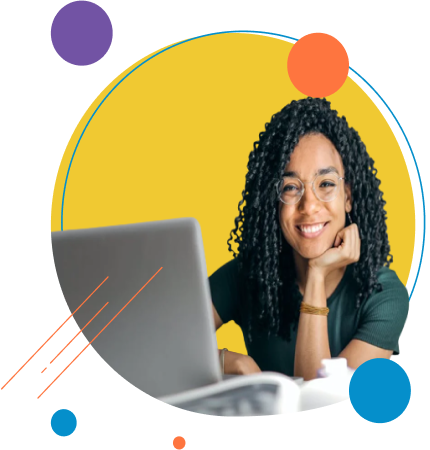
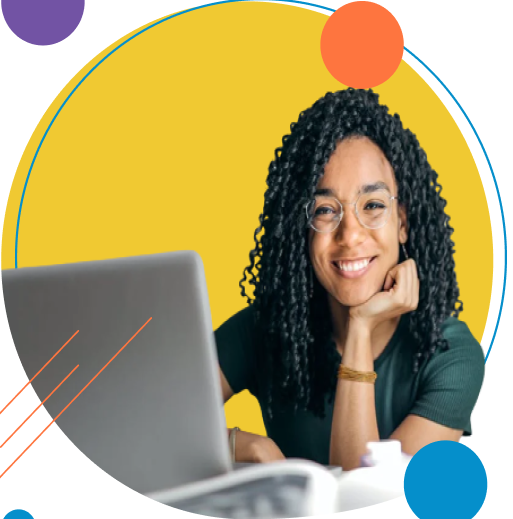
a litlle change on images code

diff --git a/assets/css/main.css b/assets/css/main.css
@@ -268,8 +268,11 @@ header .auth a {
 .AboutOurCourses .row {
   justify-content: space-evenly;
 }
-.AboutOurCourses img {
+.AboutOurCourses .image {
   width: 45%;
+}
+.AboutOurCourses img {
+  width: 100%;
 }
 .AboutOurCourses .info {
   width: 45%;
@@ -322,9 +325,7 @@ header .auth a {
   .AboutOurCourses .row {
     gap: 50px;
   }
-  .AboutOurCourses img {
-    width: 60%;
-  }
+
   .AboutOurCourses .info {
     width: 80%;
   }
@@ -336,14 +337,15 @@ header .auth a {
   .AboutOurCourses .info .ratios {
     gap: 35px;
   }
+  .AboutOurCourses .image {
+    width: 100%;
+  }
 }
 @media screen and (max-width: 480px) {
   .AboutOurCourses .info h3 {
     font-size: 20px;
   }
-  .AboutOurCourses img {
-    width: 80%;
-  }
+
   .AboutOurCourses .info .ratios h4 {
     font-size: 26px;
   }

diff --git a/index.html b/index.html
@@ -134,10 +134,12 @@
       <section class="AboutOurCourses">
         <div class="container">
           <div class="row">
-            <img
-              src="assets/img/About Our Courses/MotherAndSon.png"
-              alt="Courses"
-            />
+            <div class="image">
+              <img
+                src="assets/img/About Our Courses/MotherAndSon.png"
+                alt="Courses"
+              />
+            </div>
             <div class="info">
               <span class="yellow Inter changefont">selected course</span>
               <h3>People Taking Courses</h3>
